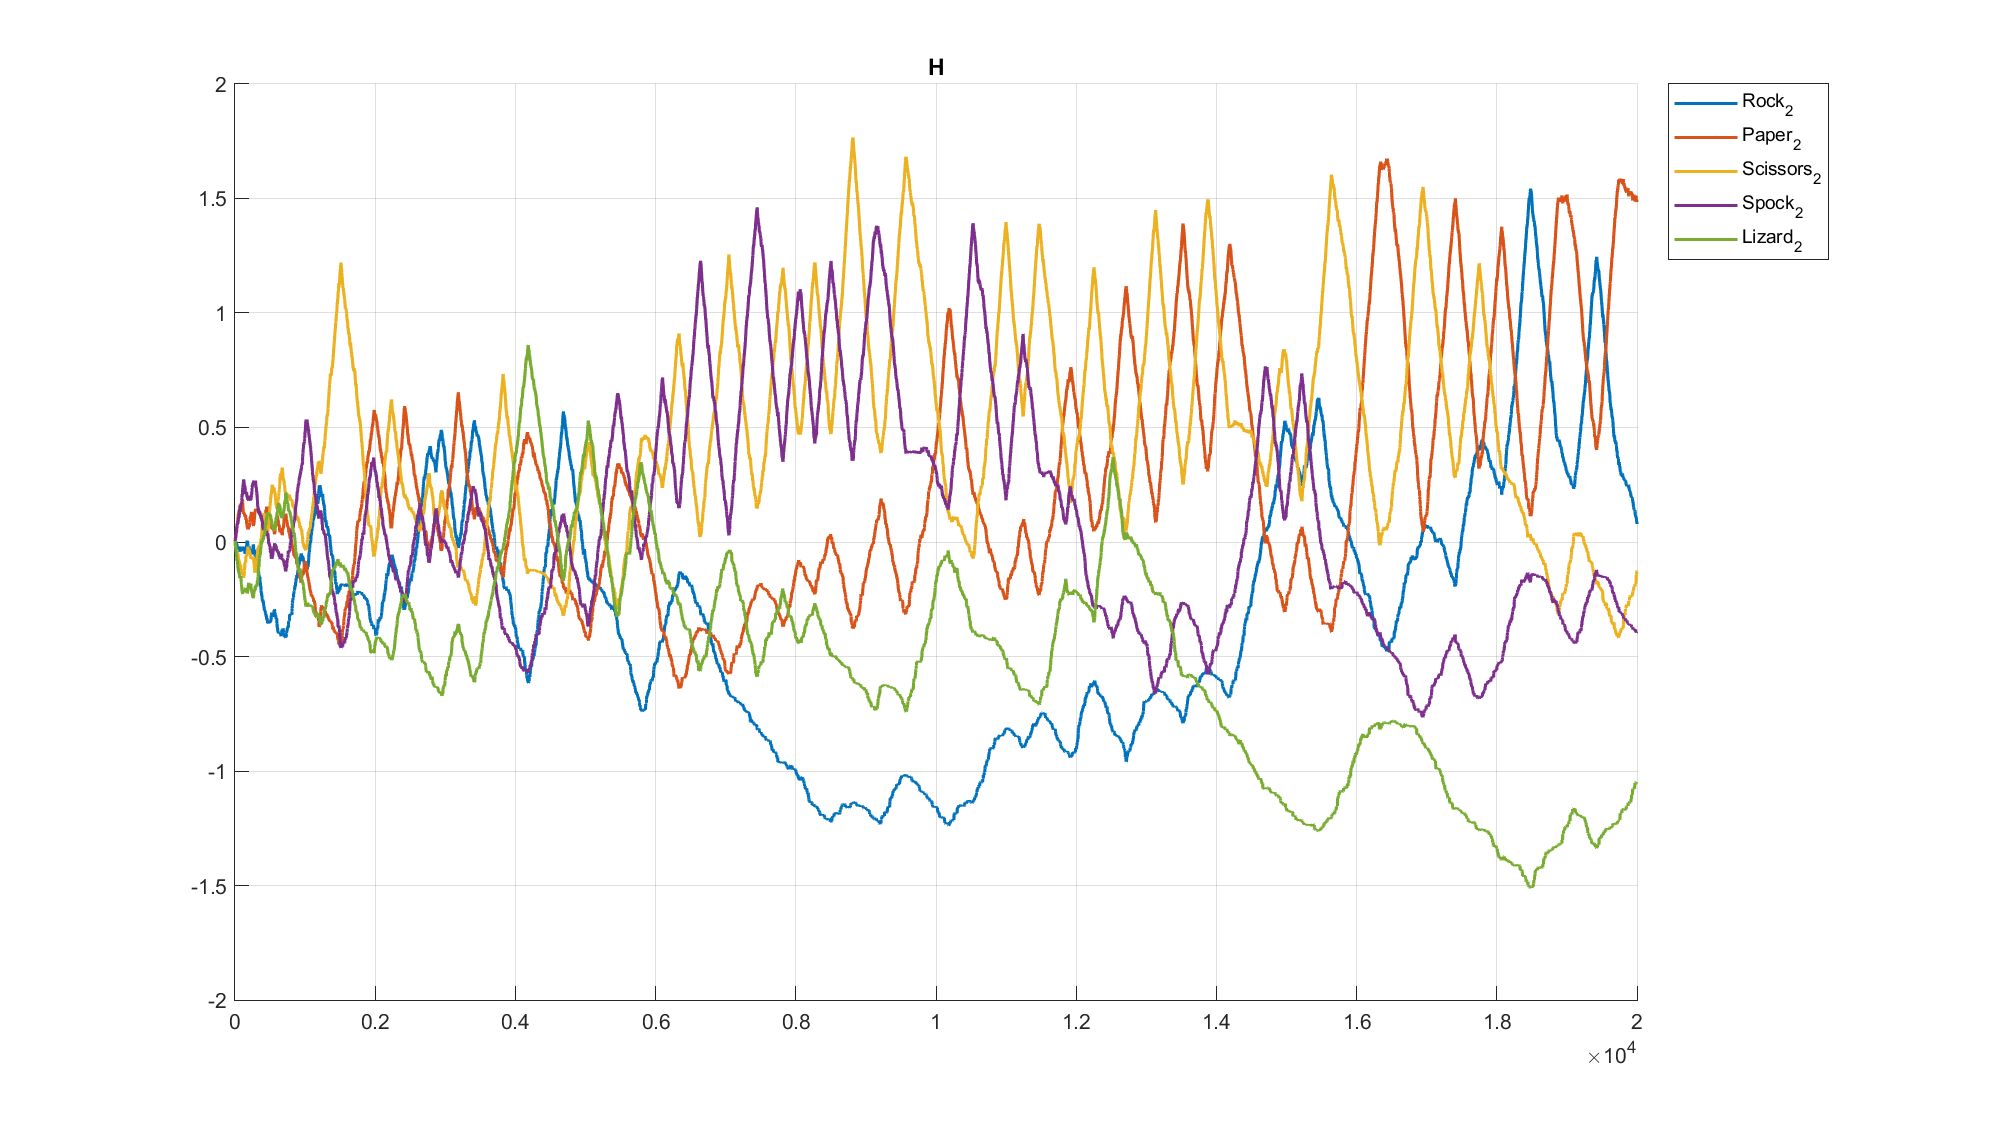
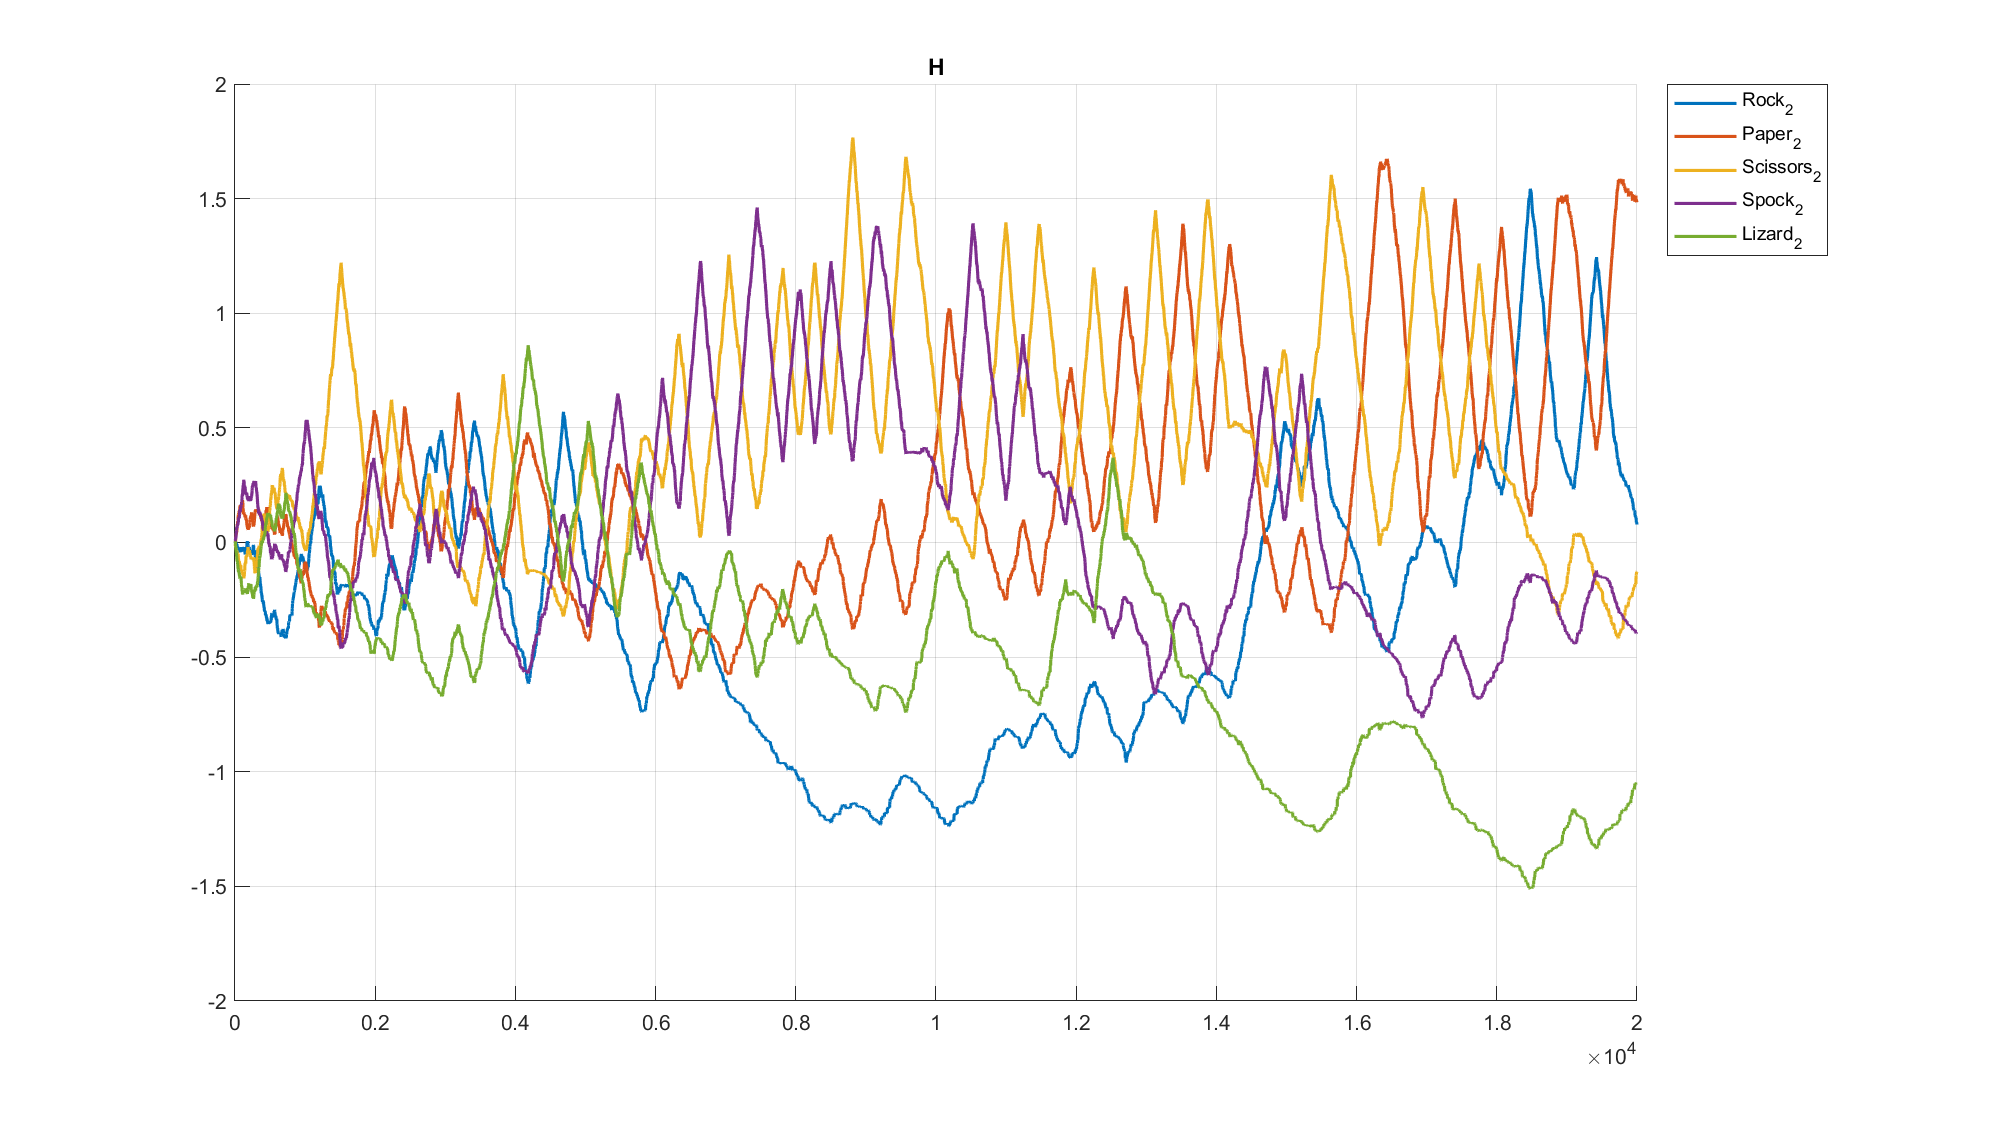
Beafutify graphs in the case stationary no equiprobable

diff --git a/rel1/stationary_no_equiprobable_case/e_greedy.m b/rel1/stationary_no_equiprobable_case/e_greedy.m
@@ -10,19 +10,12 @@ lengthEpisode = 20000; % number of actions to take
 
 Q = ones(A, 1); % estimate of the value of actions
 N = zeros(A, 1); % number of times we take each action
+W = [0,0,0]; % counter for [agent 1 win, agent 2 win, draws]
 
-WW = 0; % counter for wins
-WS = 0; % counter for defeats
-WD = 0; % counter for draws
-
-% save history for W
-historyWW = zeros(1, lengthEpisode);
-historyWS = zeros(1, lengthEpisode);
-historyWD = zeros(1, lengthEpisode);
-
-% save history of Q and N
+% save history of Q, N, and W
 historyQ = zeros(A, lengthEpisode);
 historyN = zeros(A, lengthEpisode);
+historyW = zeros(3, lengthEpisode);
 
 for i = 1:lengthEpisode
     if rand < epsilon
@@ -36,46 +29,74 @@ for i = 1:lengthEpisode
     N(agent_int) = N(agent_int) + 1; % increment the counter for the actions taken
     Q(agent_int) = Q(agent_int) + 1/N(agent_int)*(r - Q(agent_int));
 
+    % ---------Update match result history---------------------
+    if r == 1
+        W = W + [1, 0, 0];
+    elseif r == -1
+        W = W + [0, 1, 0];
+    else
+        W = W + [0, 0, 1];
+    end
+
     % save the history
     historyQ(:,i) = Q;
     historyN(:, i) = N;
+    historyW(:,i) = W;
 
-    % update W
-    if r == 1
-        WW = WW +1;
-    elseif r == -1
-        WS = WS + 1;
-    else
-        WD = WD + 1;
-    end
-
-    % save the history for W 
-    historyWW(:, i) = WW;
-    historyWS(:, i) = WS;
-    historyWD(:, i) = WD; % for draws
 end
 
 %% plots
 
-% plot the history of Q
-figure()
-plot(historyQ', 'LineWidth',2)
-ylabel('Q')
-legend('Rock', 'Paper', 'Scissors', 'Spock', 'Lizard')
-
-% plot the history of N
-figure()
-plot(historyN', 'LineWidth', 2)
-ylabel('N')
-legend('Rock', 'Paper', 'Scissors', 'Spock', 'Lizard')
-
-figure()
+%-----------------plot the history of Q------------------------------------
+% Fixed
+figure('Position', [0 0 1280 720])
 hold on
-plot(historyWW', 'LineWidth', 2)
-plot(historyWS', 'LineWidth', 2, 'LineStyle','--')
-plot(historyWD', 'LineWidth', 2, 'LineStyle',':')
+% Graph content
+title('Q')
+plot(historyQ', 'LineWidth', 1.5)
+lgn = legend('Rock', 'Paper', 'Scissors', 'Spock', 'Lizard');
+set(gca, 'ColorOrder', colors(5))
+% Fixed
+grid on
+lgn.Location = 'northeastoutside';
 hold off
-legend('W_W', 'W_S', 'W_D')
+% Save graph
+saveas(gcf, "graphs/e/Q", "png")
+%--------------------------------------------------------------------------
+
+%-----------------plot the history of V------------------------------------
+% Fixed
+figure('Position', [0 0 1280 720])
+hold on
+% Graph content
+title('N')
+plot(historyN', 'LineWidth', 1.5)
+lgn = legend('Rock', 'Paper', 'Scissors', 'Spock', 'Lizard');
+set(gca, 'ColorOrder', colors(5))
+% Fixed
+grid on
+lgn.Location = 'northeastoutside';
+hold off
+% Save graph
+saveas(gcf, "graphs/e/N", "png")
+%--------------------------------------------------------------------------
+
+%-----------------plot the history of W------------------------------------
+% Fixed
+figure('Position', [0 0 1280 720])
+hold on
+% Graph content
 title('W')
+plot(historyW(1,:)', 'LineWidth', 1.5)
+plot(historyW(2,:)', 'LineWidth', 1.5, 'LineStyle','--')
+plot(historyW(3,:)', 'LineWidth', 1.5, 'LineStyle',':')
+lgn = legend('Wins_{agent}', 'Wins_{bandit}', 'Draws');
+set(gca, 'ColorOrder', colors(3))
+% Fixed
+grid on
+lgn.Location = 'northeastoutside';
+hold off
+% Save
+saveas(gcf, "graphs/e/W", "png")
 
 % convergence of Q for number of episodes tending to infinity

diff --git a/rel1/stationary_no_equiprobable_case/UCB.m b/rel1/stationary_no_equiprobable_case/UCB.m
@@ -10,18 +10,12 @@ lengthEpisode = 1000; % number of actions to take
 
 Q = ones(A, 1); % estimate of the value of actions
 N = zeros(A, 1); % number of times we take each action
-WW = 0; % counter for wins
-WS = 0; % counter for defeats
-WD = 0; % counter for draws
+W = [0,0,0]; % counter for [agent 1 win, agent 2 win, draws]
 
-% save history of Q and N
+% save history of Q, N, and W
 historyQ = zeros(A, lengthEpisode);
 historyN = zeros(A, lengthEpisode);
-
-% save history for W
-historyWW = zeros(1, lengthEpisode);
-historyWS = zeros(1, lengthEpisode);
-historyWD = zeros(1, lengthEpisode);
+historyW = zeros(3, lengthEpisode);
 
 for i = 1:lengthEpisode
     Qext = Q + c*sqrt(log(i)./(N+1)); % extended value function
@@ -30,44 +24,70 @@ for i = 1:lengthEpisode
     N(a) = N(a) + 1; % increment the counter for the actions taken
     Q(a) = Q(a) + 1/N(a)*(r - Q(a));
 
+    if r == 1
+        W = W + [1, 0, 0];
+    elseif r == -1
+        W = W + [0, 1, 0];
+    else
+        W = W + [0, 0, 1];
+    end
+
     % save the history
     historyQ(:,i) = Q;
     historyN(:, i) = N;
-
-    % update W
-    if r == 1
-        WW = WW +1;
-    elseif r == -1
-        WS = WS + 1;
-    else
-        WD = WD + 1;
-    end
-
-    % save the history for W 
-    historyWW(:, i) = WW;
-    historyWS(:, i) = WS;
-    historyWD(:, i) = WD; % for draws
+    historyW(:,i) = W;
 end
 
 %% plots
 
-% plot the history of Q
-figure()
-plot(historyQ','LineWidth',2)
-ylabel('Q')
-legend('Rock', 'Paper', 'Scissors', 'Spock', 'Lizard')
-
-% plot the history of N
-figure()
-plot(historyN','LineWidth',2)
-ylabel('N')
-legend('Rock', 'Paper', 'Scissors', 'Spock', 'Lizard')
-
-figure()
+%-----------------plot the history of Q------------------------------------
+% Fixed
+figure('Position', [0 0 1280 720])
 hold on
-plot(historyWW', 'LineWidth', 2)
-plot(historyWS', 'LineWidth', 2, 'LineStyle','--')
-plot(historyWD', 'LineWidth', 2, 'LineStyle',':')
+% Graph content
+title('Q')
+plot(historyQ', 'LineWidth', 1.5)
+lgn = legend('Rock', 'Paper', 'Scissors', 'Spock', 'Lizard');
+set(gca, 'ColorOrder', colors(5))
+% Fixed
+grid on
+lgn.Location = 'northeastoutside';
 hold off
-legend('W_W', 'W_S', 'W_D')
+% Save graph
+saveas(gcf, "graphs/UCB/Q", "png")
+%--------------------------------------------------------------------------
+
+%-----------------plot the history of V------------------------------------
+% Fixed
+figure('Position', [0 0 1280 720])
+hold on
+% Graph content
+title('N')
+plot(historyN', 'LineWidth', 1.5)
+lgn = legend('Rock', 'Paper', 'Scissors', 'Spock', 'Lizard');
+set(gca, 'ColorOrder', colors(5))
+% Fixed
+grid on
+lgn.Location = 'northeastoutside';
+hold off
+% Save graph
+saveas(gcf, "graphs/UCB/N", "png")
+%--------------------------------------------------------------------------
+
+%-----------------plot the history of W------------------------------------
+% Fixed
+figure('Position', [0 0 1280 720])
+hold on
+% Graph content
 title('W')
+plot(historyW(1,:)', 'LineWidth', 1.5)
+plot(historyW(2,:)', 'LineWidth', 1.5, 'LineStyle','--')
+plot(historyW(3,:)', 'LineWidth', 1.5, 'LineStyle',':')
+lgn = legend('Wins_{agent}', 'Wins_{bandit}', 'Draws');
+set(gca, 'ColorOrder', colors(3))
+% Fixed
+grid on
+lgn.Location = 'northeastoutside';
+hold off
+% Save
+saveas(gcf, "graphs/UCB/W", "png")

diff --git a/rel1/stationary_no_equiprobable_case/preference_update.m b/rel1/stationary_no_equiprobable_case/preference_update.m
@@ -8,20 +8,14 @@ A = 5; % dimension action space
 alpha = 1e-2; % update step for preferences
 beta = 1e-1; % update step for rewards
 lengthEpisode = 20000; % number of actions to take
-WW = 0; % counter for wins
-WS = 0; % counter for defeats
-WD = 0; % counter for draws
+W = [0,0,0]; % counter for [agent 1 win, agent 2 win, draws]
 
 H = zeros(A, 1); % preferences of actions
 avg_r = 0; % initialization of average reward
 
-% save history of H
+% save history of H and W
 historyH = zeros(A, lengthEpisode);
-
-% save history for W
-historyWW = zeros(1, lengthEpisode);
-historyWS = zeros(1, lengthEpisode);
-historyWD = zeros(1, lengthEpisode);
+historyW = zeros(3, lengthEpisode);
 
 for i = 1:lengthEpisode
     Proba = exp(H)/sum(exp(H));
@@ -34,37 +28,54 @@ for i = 1:lengthEpisode
     H(nota) = H(nota) - alpha*(r - avg_r)*Proba(nota);
     avg_r = avg_r + beta*(r-avg_r); % constant step for averagin rewards
 
-    % save the history
-    historyH(:,i) = H;
-
-    % update W
+    % ---------Update match result history---------------------
     if r == 1
-        WW = WW +1;
+        W = W + [1, 0, 0];
     elseif r == -1
-        WS = WS + 1;
+        W = W + [0, 1, 0];
     else
-        WD = WD + 1;
+        W = W + [0, 0, 1];
     end
 
-    % save the history for W 
-    historyWW(:, i) = WW;
-    historyWS(:, i) = WS;
-    historyWD(:, i) = WD; % for draws
+    % save the history for H and W
+    historyH(:,i) = H;
+    historyW(:,i) = W;
+
 end
 
 %% plots
 
-% plot the history of H
-figure()
-plot(historyH','LineWidth',2)
-ylabel('H')
-legend('Rock', 'Paper', 'Scissors', 'Spock', 'Lizard')
-
-figure()
+%-----------------plot the history of Q------------------------------------
+% Fixed
+figure('Position', [0 0 1280 720])
 hold on
-plot(historyWW', 'LineWidth', 2)
-plot(historyWS', 'LineWidth', 2, 'LineStyle','--')
-plot(historyWD', 'LineWidth', 2, 'LineStyle',':')
+% Graph content
+title('H')
+plot(historyH', 'LineWidth', 1.5)
+lgn = legend('Rock', 'Paper', 'Scissors', 'Spock', 'Lizard');
+set(gca, 'ColorOrder', colors(5))
+% Fixed
+grid on
+lgn.Location = 'northeastoutside';
 hold off
-legend('W_W', 'W_S', 'W_D')
+% Save graph
+saveas(gcf, "graphs/preference_update/Q", "png")
+%--------------------------------------------------------------------------
+
+%-----------------plot the history of W------------------------------------
+% Fixed
+figure('Position', [0 0 1280 720])
+hold on
+% Graph content
 title('W')
+plot(historyW(1,:)', 'LineWidth', 1.5)
+plot(historyW(2,:)', 'LineWidth', 1.5, 'LineStyle','--')
+plot(historyW(3,:)', 'LineWidth', 1.5, 'LineStyle',':')
+lgn = legend('Wins_{agent}', 'Wins_{bandit}', 'Draws');
+set(gca, 'ColorOrder', colors(3))
+% Fixed
+grid on
+lgn.Location = 'northeastoutside';
+hold off
+% Save
+saveas(gcf, "graphs/preference_update/W", "png")

diff --git a/rel1/stationary_no_equiprobable_case/colors.m b/rel1/stationary_no_equiprobable_case/colors.m
@@ -1,0 +1,11 @@
+function returnColors = colors(i)
+    defaultColors = [   0 0.4470 0.7410;
+                        0.8500 0.3250 0.0980;
+                        0.9290 0.6940 0.1250;
+                        0.4940 0.1840 0.5560;
+                        0.4660 0.6740 0.1880;
+                        0.3010 0.7450 0.9330;
+                        0.6350 0.0780 0.1840];
+    returnColors = defaultColors(1:i,:);
+end
+
